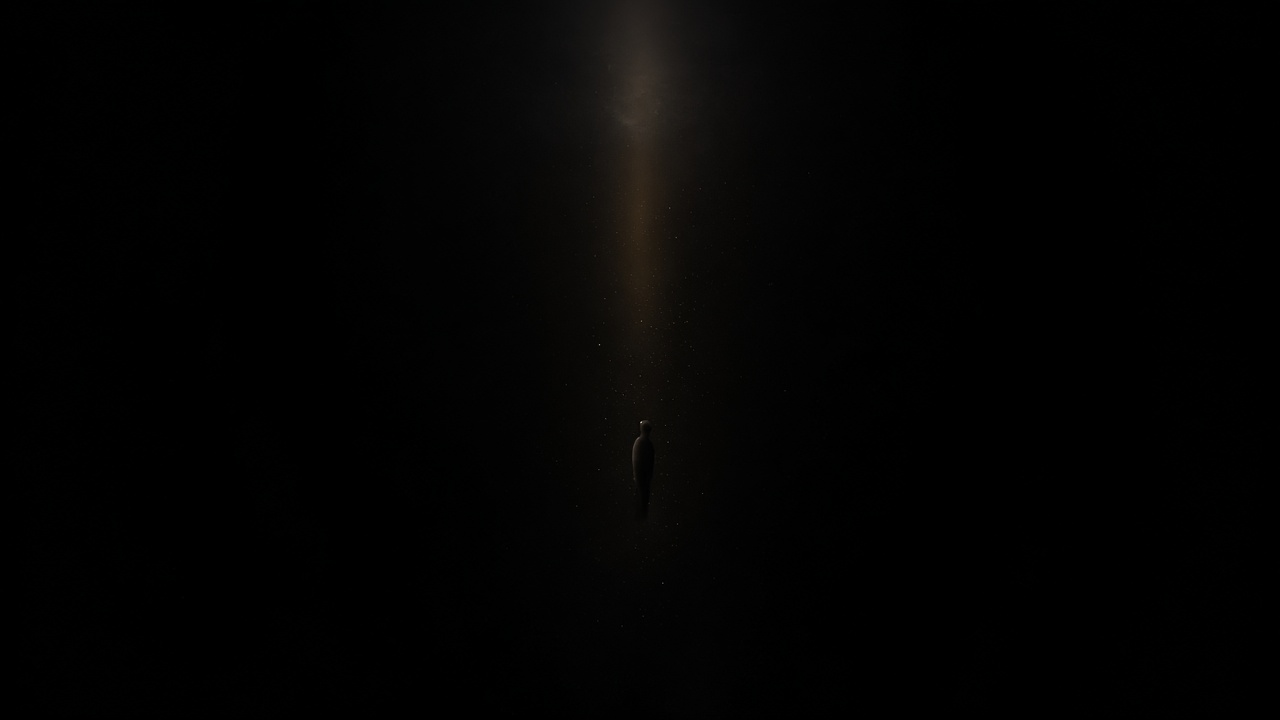
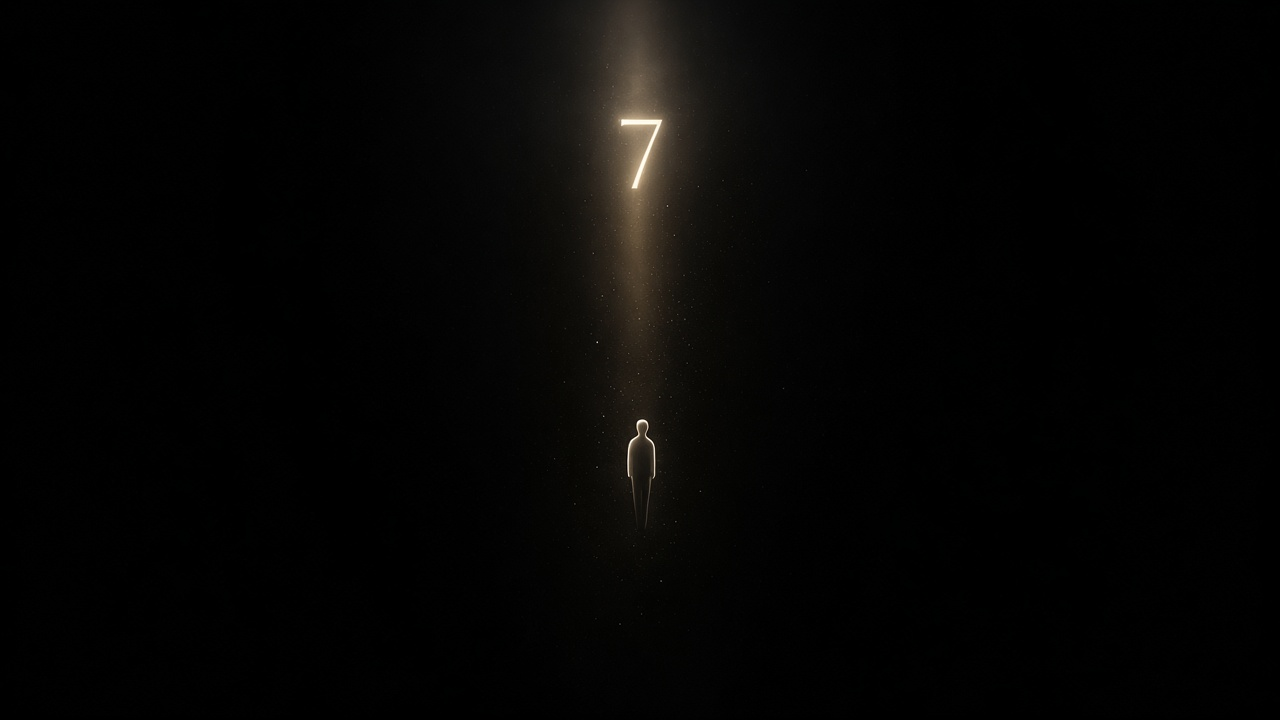
Cerrar Mía.

Changed region(s): [[0.4375, 0.0, 0.5312, 0.4583], [0.4688, 0.5806, 0.5312, 0.6722]]

diff --git a/README.md b/README.md
@@ -1,21 +1,17 @@
 <div align="center">
 
-<img src="art/ascenso.png" alt="Una figura pequeña asciende en la oscuridad hacia una luz tenue" width="100%" />
+<img src="art/ascenso.png" alt="Una figura clara asciende en la oscuridad hacia un 7 luminoso" width="100%" />
 
 # Mía
 
-### En espera
-
 </div>
 
-Este proyecto queda en pausa.
+Se terminó.
 
-Se acabó la inspiración. Por motivos personales no pude convertirlo en la mejor versión de lo que quería hacer, y ahora no tengo ánimo de seguir.
+Se acabó la inspiración. Por motivos personales no pude convertirlo en la mejor versión de lo que quería hacer, y no tengo ánimo de seguir.
 
-El código no se borra. Está guardado aparte, en privado. Este repositorio público se queda así: en silencio, sin hoja de ruta y sin fecha de regreso.
-
-Si algún día vuelve, será desde aquí.
+A quienes les gustó este tema: lo siento. Gracias por mirarlo con cariño.
 
 ---
 
-This repository is on standby. The work is kept in private. Nothing here is being maintained for now.
+This project has ended. To anyone who liked the theme: I'm sorry.
